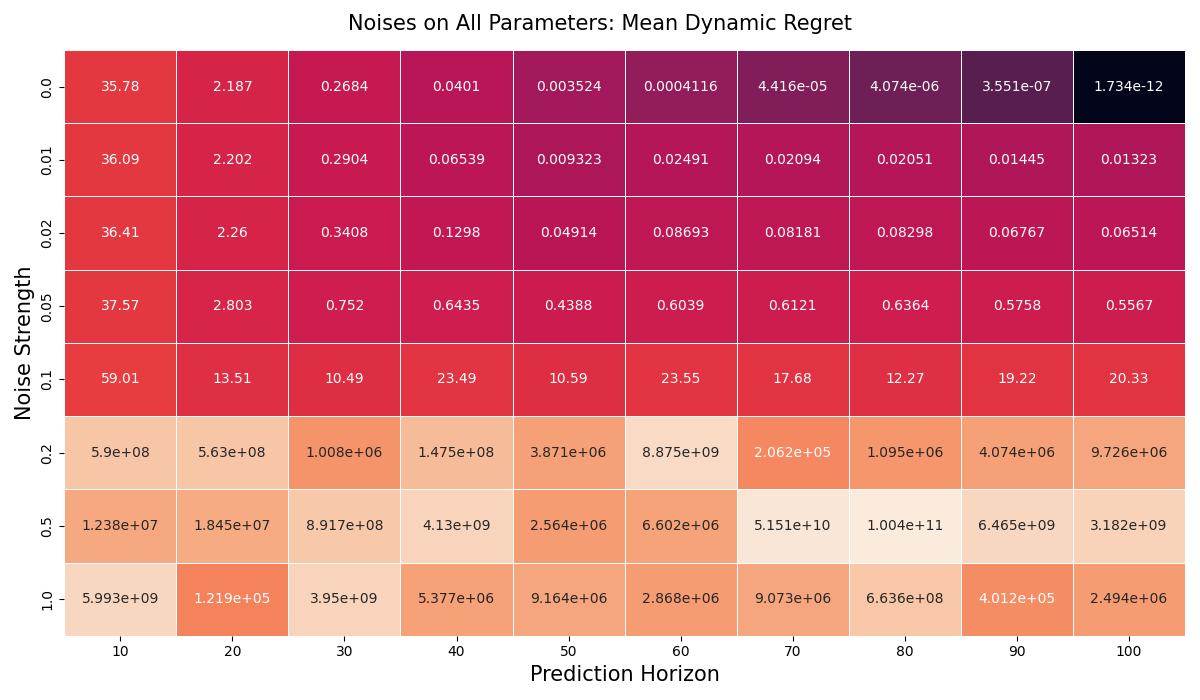
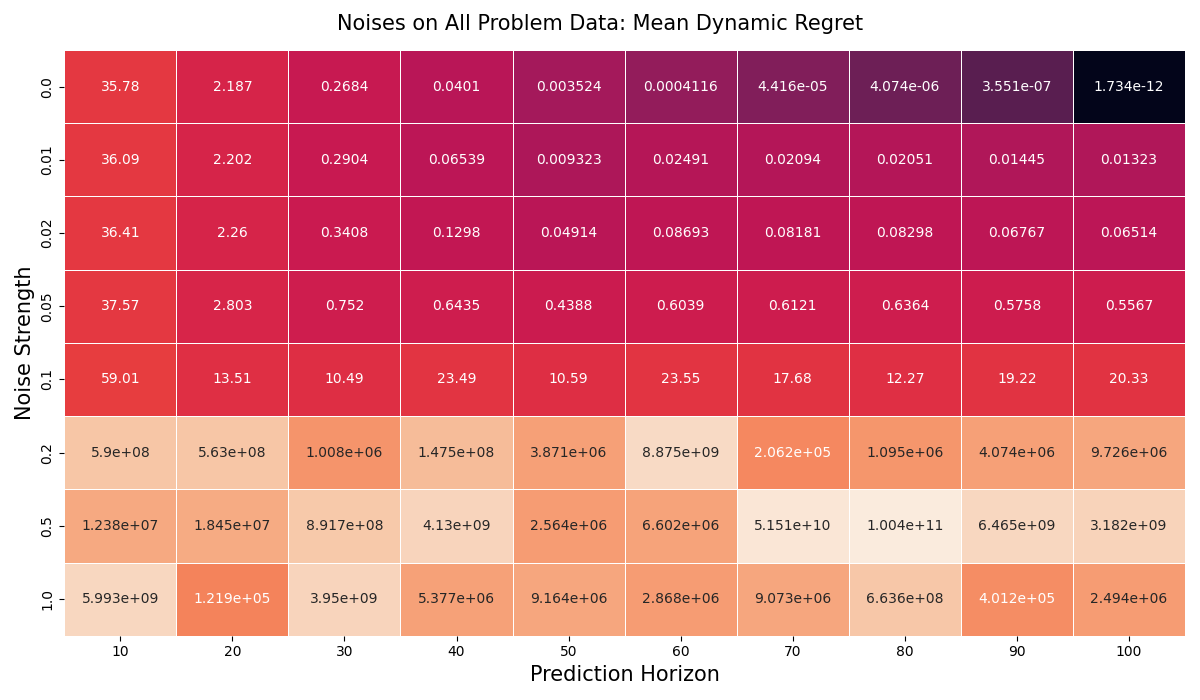
minor

Changed region(s): [[0.2775, 0.0, 0.7092, 0.06]]

diff --git a/plot_dynamic_regret.py b/plot_dynamic_regret.py
@@ -59,12 +59,12 @@ def create_dynamic_regret_heatmap_noisy_prediction():
                         title="Noises on Disturbance only: Mean Dynamic Regret", save_fn="./figures/noisy_parameters/regret_mean_disturbance_only.png")
     plot_matrix_heatmap(regret_mean[1], row_idxs, col_idxs, "Noise Strength", "Prediction Horizon",
                         format="4.4g", log_plot=True,
-                        title="Noises on All Parameters: Mean Dynamic Regret", save_fn="./figures/noisy_parameters/regret_mean_full.png")
+                        title="Noises on All Problem Data: Mean Dynamic Regret", save_fn="./figures/noisy_parameters/regret_mean_full.png")
     plot_matrix_heatmap(regret_std[0], row_idxs, col_idxs, "Noise Strength", "Prediction Horizon", format="4.4f",
                         title="Noises on Disturbance only: Standard Deviation of Dynamic Regret",
                         save_fn="./figures/noisy_parameters/regret_std_disturbance_only.png")
     plot_matrix_heatmap(regret_std[1], row_idxs, col_idxs, "Noise Strength", "Prediction Horizon", format="4.4g",
-                        title="Noises on All Parameters: Standard Deviation of Dynamic Regret",
+                        title="Noises on All Problem Data: Standard Deviation of Dynamic Regret",
                         save_fn="./figures/noisy_parameters/regret_std_full.png")
     print("Finished")
 
@@ -131,6 +131,7 @@ def create_dynamic_regret_curves():
                 ax.plot(episode_lengths, episode_lengths, color='red', linestyle='--')
                 ax.set_xlabel(f"Prediction horizon: {PREDICTION_HORIZON_RATIOS[col]} * T", fontsize=15)
                 ax.set_ylabel(f"Noise: {PREDICTION_NOISES[row]}", fontsize=15)
+                ax.set_yscale('log')
 
         for ax in axs.flat:
             ax.label_outer()
@@ -144,10 +145,10 @@ def create_dynamic_regret_curves():
     regret_matrix = pickle.load(open("data/test_dynamic_regret_curve/final_result", "rb"))
     _plot(regret_matrix[0],
           "Dynamic Regret Curve for multiple Prediction Horizon Ratios and Noise Levels: Noise on Disturbance only",
-          save_fn="./figures/noisy_parameters/dynamic_regret_curve_table_disturbance.png")
+          save_fn="./figures/noisy_parameters/dynamic_regret_curve_table_disturbance_log.png")
     _plot(regret_matrix[1],
-          "Dynamic Regret Curve for multiple Prediction Horizon Ratios and Noise Levels: Noise on All Parameters",
-          save_fn="./figures/noisy_parameters/dynamic_regret_curve_table_all.png")
+          "Dynamic Regret Curve for multiple Prediction Horizon Ratios and Noise Levels: Noise on All Problem Data",
+          save_fn="./figures/noisy_parameters/dynamic_regret_curve_table_all_log.png")
 
 
 if __name__ == '__main__':

diff --git a/plot_per_step_error.py b/plot_per_step_error.py
@@ -54,7 +54,7 @@ def create_error_graphs():
           "Per-step Error on multiple prediction horizons: Noise on Disturbance only",
           save_fn="./figures/noisy_parameters/per-step_error_disturbance_log.png")
     _plot(per_step_error_episode_average[1],
-          "Per-step Error on multiple prediction horizons: Noise on All Parameters",
+          "Per-step Error on multiple prediction horizons: Noise on All Problem Data",
           save_fn="./figures/noisy_parameters/per-step_error_table_all_log.png")
 
     print("Finished")
